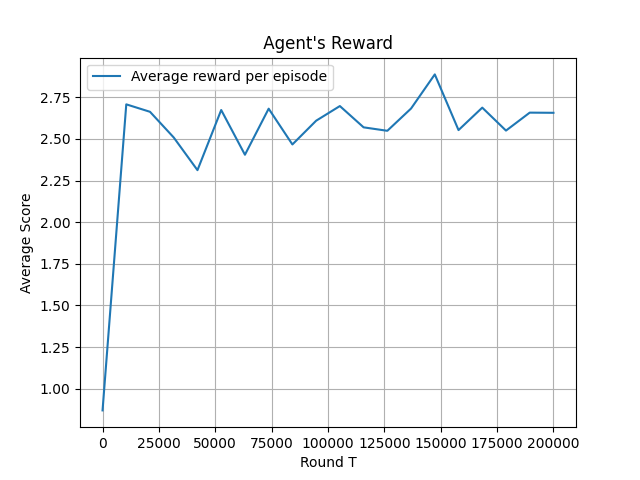
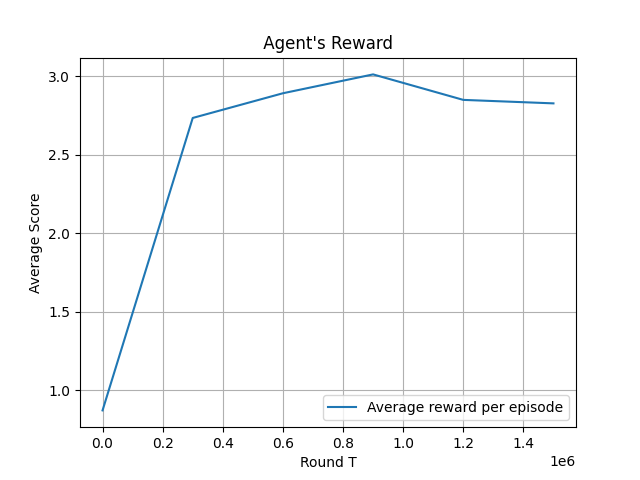
updating the testing figures/arrays

diff --git a/project/DQN_Agent/main.py b/project/DQN_Agent/main.py
@@ -19,11 +19,11 @@ if __name__ == '__main__':
     seed = 42
     env = rlcard.make("limit-holdem", config={'seed': seed,})
     set_seed(seed)
-    device = torch.device("cuda" if torch.cuda.is_available() else "cpu")
+    device = torch.device("cuda" if torch.cuda.is_available() else "cpu") 
     print(f"used device is {device}")
-    horizon = 500_000
+    horizon = 1_500_000
     num_eval_games = 2_000 #how many hands will be played in every tournament
-    evaluate_every = 10_000
+    evaluate_every = 250_000
     index = 0
     per = False
     threshold = False
@@ -37,8 +37,8 @@ if __name__ == '__main__':
         batch_size=64,
         buffer_size=20_000 if not per else 100_000,
         gamma = .99,
-        lr = .00003,
-        decrease= int(3.5*0.4*horizon), #exploration in the 40% of the horizon. # because the agent's step is called almost 4 times ine evry game
+        lr = 10**(-5), #god lr is .00003
+        decrease= int(1.7*0.4*horizon), #exploration in the 40% of the horizon. # because the agent's step is called almost 4 times ine evry game
         goal = .1,
         update_every= 1000,
         per = per
@@ -65,14 +65,14 @@ if __name__ == '__main__':
             index+=1
 
     print(f"the buffer size at the end is {len(agent.replay_buffer)}")
-    file_path = f"./DQN_Agent/data/"
+    file_path = f"./DQN_Agent/data/dropping_lr/"
     if not os.path.exists(file_path):
     # If it doesn't exist, create the directory
         os.makedirs(file_path)
         print(f"Directory '{file_path}' has been created.")
     else:
         print(f"Directory '{file_path}' already exists.")
-    np.save(file_path+f"threshold_{threshold}_per_{per}.npy", rewards, allow_pickle=True)
+    np.save(file_path+f"threshold_{threshold}_per_{per}_0001_drop.npy", rewards, allow_pickle=True)
 
 
     plt.figure(1)

diff --git a/project/DQN_Agent/plot.py b/project/DQN_Agent/plot.py
@@ -1,24 +1,31 @@
 import numpy as np
 import matplotlib.pyplot as plt
 
-horizon = int(200_000/10_000)
-file_path = "DQN_Agent/data/threshold_False_per_False_model.npy"
+horizon = int(1_500_000/250_000)
+file_path = "DQN_Agent/data/dropping_lr/threshold_False_per_False_0001_drop.npy"
 # Load the CSV file into a NumPy array
-model= np.load(file_path, allow_pickle=True)
+drop= np.load(file_path, allow_pickle=True)
 
 
-file_path = "DQN_Agent/data/threshold_False_per_False_full.npy"
-full = np.load(file_path, allow_pickle=True)
+#file_path = "DQN_Agent/data/lr_experiments/threshold_False_per_False_001.npy"
+#agent_001 = np.load(file_path, allow_pickle=True)
 
+file_path = "DQN_Agent/data/lr_experiments/threshold_False_per_False_0001.npy"
+agent_0001 = np.load(file_path, allow_pickle=True)
+
+file_path = "DQN_Agent/data/lr_experiments/threshold_False_per_False_00001.npy"
+agent_00001 = np.load(file_path, allow_pickle=True)
 
 
 plt.figure(1)
 plt.xlabel("Round T") 
 plt.ylabel("reward in t") 
-plt.plot(np.arange(1,horizon+1),model, label="Using a single network")
-plt.plot(np.arange(1,horizon+1),full, label="Using two networks")
+plt.plot(np.arange(1,horizon+1),drop, label="learning rate reduction")
+#plt.plot(np.arange(1,horizon+1),agent_001, label="lr = 10**(-3)")
+plt.plot(np.arange(1,horizon+1),agent_0001, label="lr = 10**(-4)")
+plt.plot(np.arange(1,horizon+1),agent_00001, label="lr = 10**(-5)")
 plt.grid()
 plt.legend()
-plt.savefig("./DQN_Agent/images/report/model_vs_network") # I would have to save fig in order to store it. That is working without depending on .show
+plt.savefig("./DQN_Agent/images/report/lr_comparison_reduction") # I would have to save fig in order to store it. That is working without depending on .show
 plt.show()
 print("end")

diff --git a/project/DQN_Agent/agent.py b/project/DQN_Agent/agent.py
@@ -168,7 +168,7 @@ class Agent():
         if (self.eps == self.goal + self.dt):
             print("\n----------exploration was ended--------------")
             self.eps = self.goal - self.dt
-            self.optimizer.param_groups[0]['lr'] = self.lr*0.1
+            #self.optimizer.param_groups[0]['lr'] = self.lr*0.1
 
     def train_per(self,experience):
         self.model.train()
@@ -271,7 +271,6 @@ class Agent():
         
         for target_param, local_param in zip(self.target_model.parameters(), self.model.parameters()):
             target_param.data.copy_(self.TAU*local_param.data + (1.0-self.TAU)*target_param.data)
-
    
     def set_per_values(self):
         if not self.per: return
